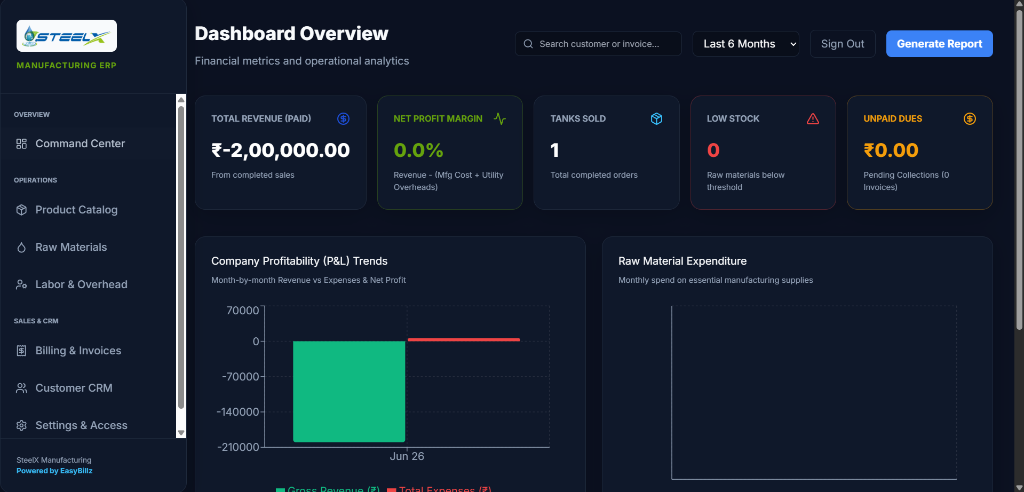
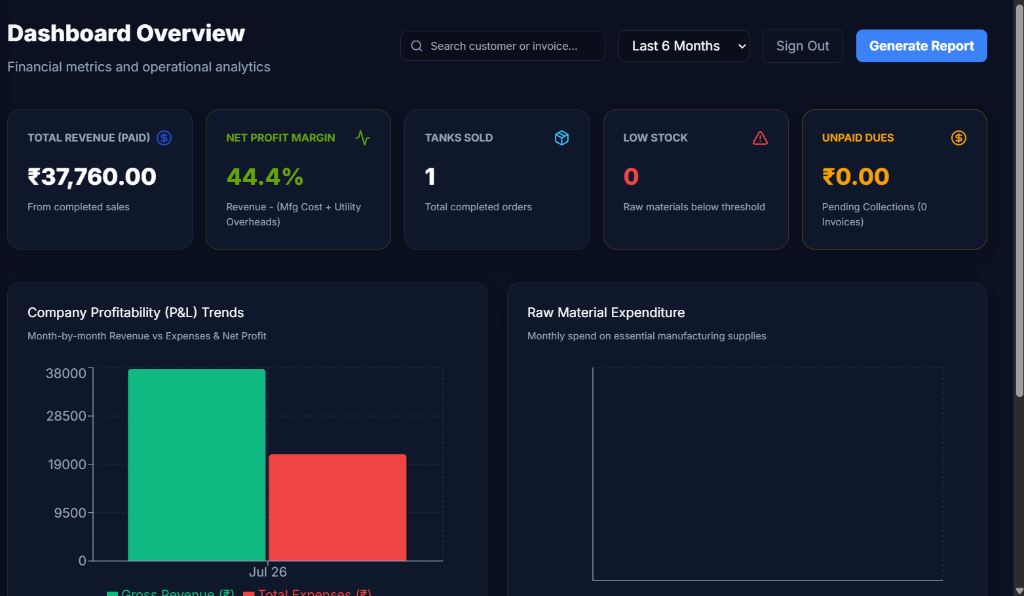
Add Enterprise BI & Big Data Analytics Engine and update SteelX screenshot

diff --git a/src/app/page.tsx b/src/app/page.tsx
@@ -38,6 +38,19 @@ export default function Portfolio() {
       architecture: "Engineered a custom local background synchronization agent using Node.js that safely reads and extracts daily financial transaction records from legacy FoxPro database files. Transformed and securely transmitted the extracted data to a modern, mobile-responsive Next.js cloud dashboard.",
       impact: "Enabled business owners to access live financial analytics and daily transaction summaries on mobile devices without disrupting existing desktop accounting operations."
     },
+    {
+      title: "Enterprise BI & Big Data Analytics Engine",
+      category: "Client Project",
+      role: "Big Data Engineer & BI Developer",
+      desc: "High-contrast executive Business Intelligence terminals engineered using Microsoft Power BI and structured Big Data modeling pipelines for C-suite decision-makers.",
+      tags: ["Power BI", "Data Analytics", "Big Data", "ESG Telemetry"],
+      icon: <Activity className="w-6 h-6 text-amber-400" />,
+      color: "from-amber-500/20 to-amber-500/5",
+      image: "/projects/bi-engine.png",
+      problem: "C-suite executives and enterprise decision-makers often struggle with fragmented Excel datasets and disconnected operational metrics, making it difficult to track multi-currency revenue growth ($57.79M+ profit tracking), supply chain carbon compliance (3.71M+ tonnes CO2), and global demographic trends in real time.",
+      architecture: "Engineered automated Big Data ingestion and statistical modeling pipelines using Microsoft Power BI and structured Excel modeling. Designed real-time telematics tracking for Supply Chain ESG Carbon compliance, multi-currency financial revenue growth models, and large-scale public health aggregation datasets with interactive filtering and predictive modeling.",
+      impact: "Delivered an executive command suite that transforms raw multi-million-dollar transaction logs and telemetry streams into instant, high-contrast visual intelligence for executive decision-making."
+    },
   ];
 
   const founderProjects = [
